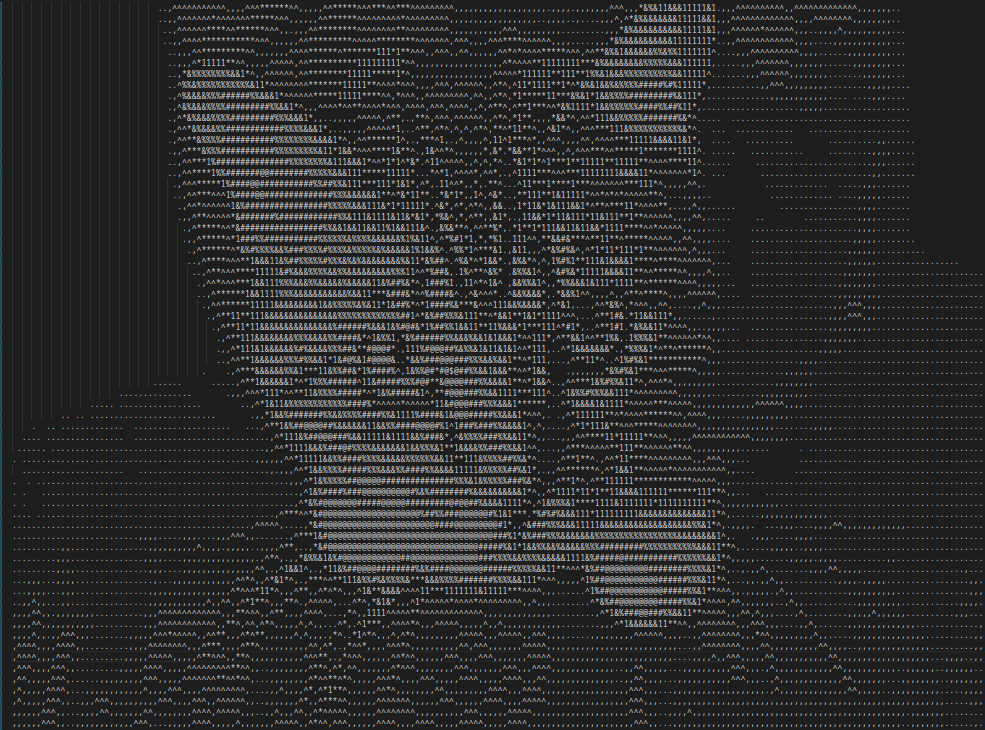
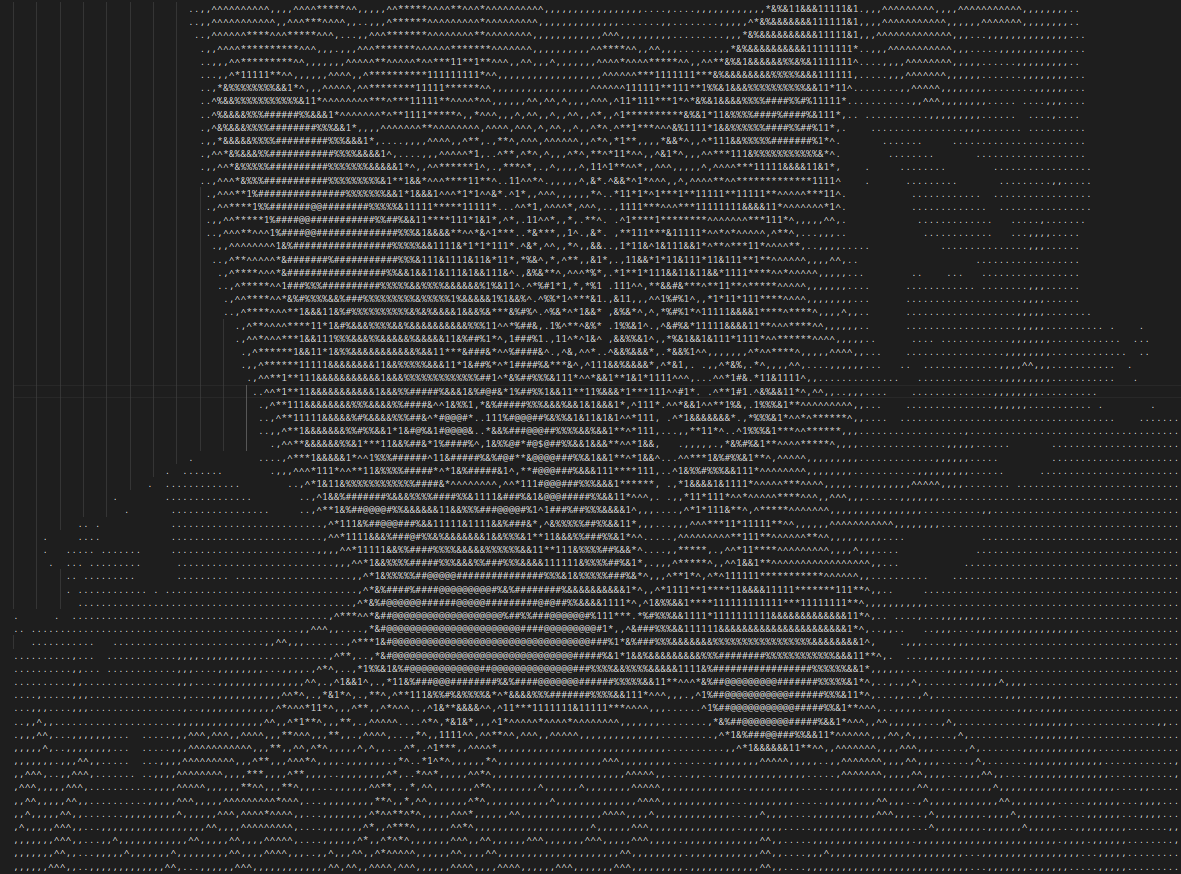
Improve aspect ratio handling

diff --git a/convert.py b/convert.py
@@ -1,52 +1,55 @@
 from PIL import Image
 import numpy as np
 
+
 # per x & y
+def get_intensities(image, numChunksX, numChunksY):
+    intensities = np.ndarray((numChunksX, numChunksY))
+    # print(im.size)
+    px = image.load()
+    # print(px[0, 0])
+    px_per_chnk_x = int(image.size[0] / numChunksX)
+    px_per_chnk_y = int(image.size[1] / numChunksY)
+
+    for yi in range(numChunksY):
+        for xi in range(numChunksX):
+            total = 0
+            for x in range(xi*px_per_chnk_x, (xi+1)*(px_per_chnk_x)):
+                for y in range(yi*px_per_chnk_y, (yi+1)*(px_per_chnk_y)):
+                    total += sum(px[x, y])
+            total = total / (px_per_chnk_x * px_per_chnk_y)
+            intensities[xi, yi] = total
+    return intensities
+
 class ImgConverter:
-    def __init__(self, numChunks=100):
-        pass
+    def __init__(self, numChunks=100, fontAspectRatio=2.3):
         self.NUM_CHUNKS_X = numChunks
-        self.NUM_CHUNKS_Y = self.NUM_CHUNKS_X // 2 
+        self.NUM_CHUNKS_Y = self.NUM_CHUNKS_X // fontAspectRatio
 
-        self.intensity_map = [" ", ".",",", "^", "*", "1","&","%","#","@", "$"]
+        self.intensity_map = [" ", ".", ",", "^", "*", "1", "&", "%", "#", "@", "$"]
         # intensity_map = [' ', '.', '\'', '-', '"', '|', '/', '*', '!', '(', '{', '[', '&', '%', '#', '@', '$']
-        
+
     def get_intensities(self, imageName):
-        intensities = np.ndarray((self.NUM_CHUNKS_X, self.NUM_CHUNKS_Y))
-        im = Image.open(imageName)
-        # print(im.size)
-        px = im.load()
-        # print(px[0, 0])
-
         # we have to preserve the aspect ratio
+        im = Image.open(imageName)
         aspect_ratio = im.size[1] / im.size[0]
-        self.NUM_CHUNKS_Y = int(aspect_ratio*self.NUM_CHUNKS_Y)
+        numChunksX = self.NUM_CHUNKS_X
+        numChunksY = int(aspect_ratio*self.NUM_CHUNKS_Y)
 
-        px_per_chnk_x = int(im.size[0] / self.NUM_CHUNKS_X)
-        px_per_chnk_y = int(im.size[1] / self.NUM_CHUNKS_Y)
-
-        for yi in range(self.NUM_CHUNKS_Y):
-            for xi in range(self.NUM_CHUNKS_X):
-                total = 0
-                for x in range(xi*px_per_chnk_x, (xi+1)*(px_per_chnk_x)):
-                    for y in range(yi*px_per_chnk_y, (yi+1)*(px_per_chnk_y)):
-                        total += sum(px[x,y])
-                total = total / (px_per_chnk_x * px_per_chnk_y)
-                intensities[xi, yi] = total
-        return intensities
+        return get_intensities(im, numChunksX, numChunksY)
 
     def generate_output(self, intensities, outputName):
         def map_to(v, vmin, vmax, tomin, tomax):
             return (v - vmin) * (tomax - tomin) / (vmax - vmin) + tomin
 
         max_in = intensities.max()
-        min_in =  intensities.min()
+        min_in = intensities.min()
         num_in = len(self.intensity_map) - 1
 
         with open(outputName, "w") as f:
             for y in range(intensities.shape[1]):
                 for x in range(intensities.shape[0]):
-                    v = intensities[x,y]
+                    v = intensities[x, y]
                     charid = int(map_to(v, min_in, max_in, 0, num_in))
                     f.write(self.intensity_map[charid])
                 f.write("\n")

diff --git a/main.py b/main.py
@@ -13,13 +13,14 @@ if __name__ == "__main__":
     parser.add_argument("--fileName", default="img.jpg", help="Filename to use with the converter")
     parser.add_argument("--cameraId", default=0, help="Select camera id for live mode")
     parser.add_argument("--numChunks", default=100, type=int, help="Num chunks to divide the input image (per axis). Total amount of chunks ~ numChunks^2")
+    parser.add_argument("--fontAspectRatio", default=2.3, type=float, help="Font character aspect ratio (~2)")
     args = parser.parse_args()
     
     if(len(sys.argv) == 1):
         parser.print_help()
-        exit(0)
+        sys.exit(0)
 
-    converter = ImgConverter(args.numChunks)
+    converter = ImgConverter(args.numChunks, args.fontAspectRatio)
     fileName = args.fileName
     fileBase = os.path.basename(fileName).split(".")[0]
     fileOutput = os.path.join(os.path.dirname(fileName), f"{fileBase}.txt")

diff --git a/capture.py b/capture.py
@@ -27,4 +27,5 @@ def live_convert(imgConverter: ImgConverter, imgName = "img", cameraId=0):
 
 
 if __name__ == "__main__":
-    ImgConverter().live_convert()
+    converter = ImgConverter()
+    live_convert(converter)
